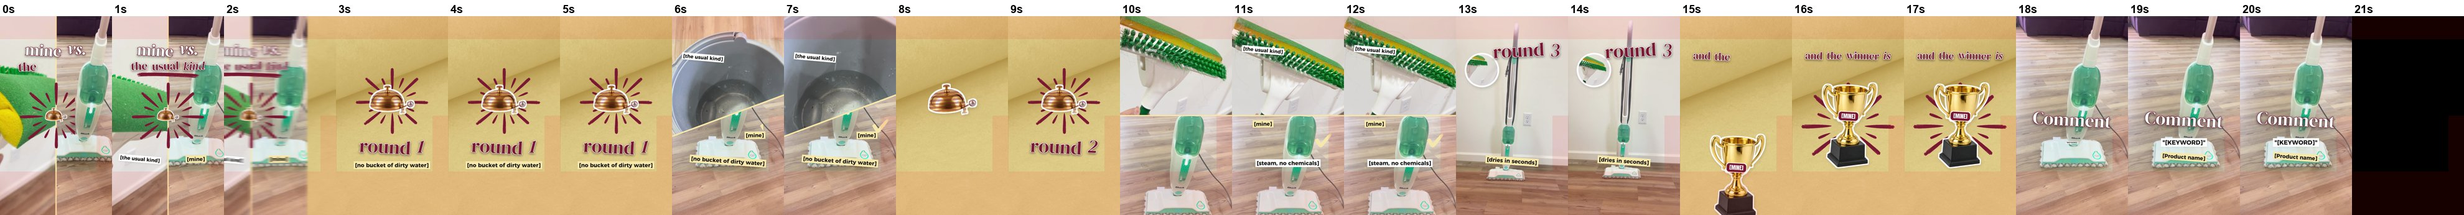
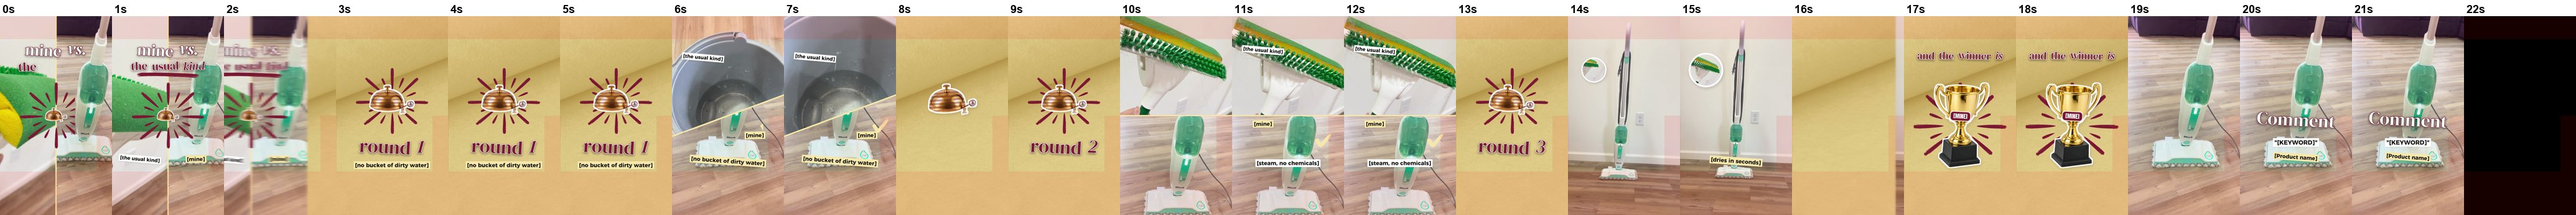
Reel Template Packs #19 (locket as the perfect pair, new CTA scene, keyword and bundle name apart, product-first crops) and #25 (bell for round 3); FRAMEWORK notes

diff --git a/automation/reel-template-pack/build/motion_19.py b/automation/reel-template-pack/build/motion_19.py
@@ -37,7 +37,7 @@ OVALS = [((0.247, 0.615), (0.18, 0.315)), ((0.75, 0.615), (0.183, 0.315))]     #
 HOLDS = [(1.5, 1.1), (3.3, 1.35), (4.9, 1.15), (6.5, 0.6), (8.1, 1.2), (9.7, 1.4), (12.45, 0.3)]   # just before each transition
 
 def setup():
-    g = {'c': {'main': Clip('IMG_1464', 2.0), 'p1': Clip('IMG_1422', 7.0), 'p2': Clip('IMG_1439', 0.5), 'p3': Clip('IMG_1436', 2.0), 'cta': Clip('IMG_1423', 2.0)}}
+    g = {'c': {'main': Clip('IMG_1464', 2.0), 'p1': X.Window(Clip('IMG_1422', 0.0), 7.5, 10.5), 'p2': Clip('IMG_1439', 0.5), 'p3': Clip('IMG_1436', 2.0), 'cta': Clip('IMG_1423', 2.0)}}
     tis = ImageOps.grayscale(S.raw('images', 'Blush Pink Tissue Paper Texture-9.png'))      # a calm pink paper stage (her note: no busy patterns)
     g['stripes'] = ImageOps.fit(ImageOps.colorize(ImageOps.autocontrast(tis), (214, 150, 178), PINK), (W, H)).convert('RGBA')
     lk = Image.open(S.E.PACK / 'build' / '.cache' / 'hq' / 'Open vintage gold locket, blank inside.png').convert('RGBA'); lk = P.style_object(S.fitw(lk, LW), 'smalldots', PINK, scale=0.3, strength=0.35, edge=8); g['locket'] = S.fitw(lk, LW); g['lh'] = g['locket'].height   # play on the object
@@ -52,8 +52,8 @@ def setup():
     g['what'] = P.caption('what to', 190, INK); g['pairw'] = P.caption('pair', 300, INK); g['with'] = X.hl('with [my steam mop]', 60, WHITE)
     g['plus'] = [X.hl(t, 62, (PINK, WHITE, PINK)[i]) for i, t in enumerate(('+ [the stick vacuum]', '+ [the odor spray]', '+ [the litter]'))]
     g['under'] = doodle('under', 0, 560, WHITE); g['plusbig'] = P.sticker('+', 150, WINE, WHITE, 'circle'); g['arrow'] = doodle('arrow', 0, 160, WHITE); g['pair1'] = P.caption('pair it with', 130, INK)
-    g['perfect'] = P.caption('a perfect pair', 140, WINE); g['bundle'] = X.hl('[ask about the bundle]', 60, WINE); g['burst'] = doodle('burst', 2, 640, CRM)
-    g['comment'] = P.caption('Comment', 190, WINE); g['kw'] = X.hl('"[KEYWORD]"', 64, WHITE); g['bname'] = X.hl('[the clean-home bundle]', 56, PINK)
+    g['perfect'] = P.caption('a perfect pair', 140, WINE); g['bundle'] = X.hl('[ask about the bundle]', 60, WINE); g['hearts'] = [P.die_cut(doodle('icon', 2 + i % 2, 150, WINE), 5, False) for i in range(3)]; g['burst'] = doodle('burst', 2, 640, CRM)
+    g['comment'] = P.caption('Comment', 190, WINE); g['kw'] = X.hl('"[KEYWORD]"', 64, WHITE); g['bname'] = X.hl('[the clean-home bundle]', 60, PINK)
     return g
 
 def oval_mask(size):
@@ -123,7 +123,7 @@ def gallery(g, t, view_y, zoom, clips, pink_in=None):
         cx, cy = GALLERY[name]
         if name == 'pink' and pink_in is not None: cy = lerp(-600, cy, back_out(seg(t, pink_in, pink_in + 0.35), 1.3))
         fx, fy = int(cx - fim.width / 2), int(cy - fim.height / 2); ow, oh = int(fim.width * (x1 - x0)), int(fim.height * (y1 - y0))
-        v = ImageOps.fit(clips[name], (ow + 8, oh + 8)).convert('RGBA')
+        v = ImageOps.fit(clips[name], (ow + 8, oh + 8), centering=(0.5, 0.35)).convert('RGBA')   # keep the product, not the hand
         if name == 'oval': v.putalpha(oval_mask(v.size))
         if top: wall.alpha_composite(fim, (fx, fy)); wall.alpha_composite(v, (fx + int(fim.width * x0) - 4, fy + int(fim.height * y0) - 4))
         else: wall.alpha_composite(v, (fx + int(fim.width * x0) - 4, fy + int(fim.height * y0) - 4)); wall.alpha_composite(fim, (fx, fy))
@@ -151,16 +151,30 @@ def diag5(g, t):
     return im
 
 def stage6(g, t):
-    im = g['stripes'].copy(); put(im, g['tea'], (540, lerp(2400, 1000, back_out(seg(t, 8.4, 8.75), 1.3))), 1, -3)
+    """'a perfect pair': the locket itself, the product in one half and pairing 1 in the other; hearts + sparkles."""
+    c = g['c']; k = back_out(seg(t, 8.4, 8.75), 1.3)
+    im = locket(g, t, c['main'].at(t), c['p1'].at(t - 1.8), lerp(2400, LC[1], k))
     P.say(im, g['perfect'], t, 8.6, (540, 380), -3)
-    doodle_on(im, t, 8.85, g['burst'], (540, 1460), 0); P.say(im, g['bundle'], t, 8.9, (540, 1460), 2)
+    for i, (xy, r) in enumerate((((150, 640), -15), ((930, 600), 12), ((880, 1560), -8))):
+        put(im, g['hearts'][i], xy, back_out(seg(t, 8.8 + i * 0.12, 9.05 + i * 0.12), 2.0), r + 6 * math.sin(t * 3 + i))
+    X.sparkles(im, t, 8.9, [(250, 1500), (980, 900), (100, 1000)], WINE, 140)
     return im
 
 def cta(g, t):
-    """All of them together: the camera pulls back to the whole gallery wall."""
-    c = g['c']; z = lerp(1.0, 0.66, ease(seg(t, 10.0, 10.6)))
-    im = gallery(g, t, lerp(400, 0, ease(seg(t, 10.0, 10.6))), z, {'gold': c['main'].at(t), 'pink': c['p1'].at(t - 1.8), 'walnut': c['p2'].at(t - 3.8), 'oval': c['p3'].at(t - 6.8)})
-    P.say(im, g['comment'], t, 10.2, (540, 900), -3); P.say(im, g['kw'], t, 10.45, (540, 1080), 2); P.say(im, g['bname'], t, 10.65, (540, 1210), -2)
+    """CTA (a new scene, her note): the product full frame, the three pairings in their real frames pinned along the top;
+    the bundle name on its own at the top, the keyword on its own in the middle (they no longer compete)."""
+    c = g['c']; im = c['main'].at(t).copy()
+    for i, (name, cl, t0, x) in enumerate((('pink', c['p1'], 1.8, 190), ('oval', c['p3'], 6.8, 540), ('walnut', c['p2'], 3.8, 890))):
+        fim, (x0, y0, x1, y1), top = g['frames'][name]; sc = 0.66 if name != 'walnut' else 0.5
+        f2 = fim.resize((int(fim.width * sc), int(fim.height * sc))); ow, oh = int(f2.width * (x1 - x0)), int(f2.height * (y1 - y0))
+        v = ImageOps.fit(cl.at(t - t0), (ow + 6, oh + 6), centering=(0.5, 0.35)).convert('RGBA')
+        if name == 'oval': v.putalpha(oval_mask(v.size))
+        tile = Image.new('RGBA', f2.size, (0, 0, 0, 0)); xy = (int(f2.width * x0) - 3, int(f2.height * y0) - 3)
+        if top: tile.alpha_composite(f2); tile.alpha_composite(v, xy)
+        else: tile.alpha_composite(v, xy); tile.alpha_composite(f2)
+        put(im, tile, (x, lerp(-300, 520, back_out(seg(t, 10.0 + i * 0.12, 10.35 + i * 0.12), 1.4))), 1, (-6, 3, 7)[i])
+    P.say(im, g['bname'], t, 10.3, (540, 860), -2)
+    P.say(im, g['comment'], t, 10.6, (540, 1150), -3); P.say(im, g['kw'], t, 10.85, (540, 1330), 2)
     return im
 
 def main():

diff --git a/automation/reel-template-pack/build/motion_25.py b/automation/reel-template-pack/build/motion_25.py
@@ -32,7 +32,7 @@ from motion_b2 import Clip, put, render, camera, ease, back_out, seg, lerp, lerp
 INK, CRM = (24, 23, 22), (246, 241, 232); WINE, BUTTER = X.WINE, X.BUTTER          # her palette: wine + butter
 X.use_type(BUTTER, WINE); X.enable_holds()
 DIR = '25-mine-vs-the-usual-kind'
-HOLDS = [(1.55, 0.8), (3.0, 1.8), (4.55, 0.9), (5.95, 0.7), (7.55, 0.8), (9.15, 0.8), (10.75, 1.3), (13.45, 0.4)]   # just before each transition
+HOLDS = [(1.55, 0.8), (3.0, 1.8), (4.55, 0.9), (5.95, 0.7), (7.55, 0.8), (8.5, 0.8), (9.15, 1.3), (10.75, 1.3), (13.45, 0.4)]   # just before each transition
 
 def setup():
     g = {'c': {'usual': Clip('IMG_1460', 0.5), 'mine': Clip('IMG_1418', 2.0), 'u1': Clip('IMG_1462', 0.5), 'm1': Clip('IMG_1423', 2.0),
@@ -126,10 +126,13 @@ def round2(g, t):
     return im
 
 def round3(g, t):
-    """Round 3: yours full frame; the usual kind small in a round window."""
-    c = g['c']; im = c['m3'].at(t - 7.8)
-    put(im, roundwin(c['usual'].at(t - 7.8, (300, 300)), 300), (250, 520), back_out(seg(t, 7.9, 8.2), 1.5))
-    P.say(im, g['round'][2], t, 7.85, (680, 330), 3); P.say(im, g['diff'][2], t, 8.1, (540, 1400), -2)
+    """Round 3: the bell rings it in on the poster like rounds 1 and 2 (her note: be consistent), then yours full
+    frame with the usual kind small in a round window."""
+    c = g['c']
+    if t < 8.6: return poster(g, t, 7.8, 2)
+    im = c['m3'].at(t - 8.6)
+    put(im, roundwin(c['usual'].at(t - 8.6, (300, 300)), 300), (250, 520), back_out(seg(t, 8.6, 8.9), 1.5))
+    P.say(im, g['diff'][2], t, 8.7, (540, 1400), -2)
     return im
 
 def stage7(g, t):

diff --git a/automation/reel-template-pack/FRAMEWORK.md b/automation/reel-template-pack/FRAMEWORK.md
@@ -567,3 +567,7 @@ Showing her work
   together. Keep ticks on the graphic stage (the clipboard ticks were cute); on video use one bolder, fun element.
 - **Real objects must read whole** (the locket zoomed so far it didn't read as a locket).
 - **No overlapping doodles or frames** (two gallery frames overlapped).
+- (2026-10-19, #19/#25) **Never end on a scene already used** (the CTA repeated the gallery wall). **The CTA keyword and
+  the product/bundle name get separate spots** so they don't compete. **Props must match the product world** (a tea
+  set in a cleaning Reel didn't). **Repeated structures stay consistent** (if rounds 1 and 2 ring the bell, round 3
+  does too). Crop clips in small frames so the product shows, not a hand.
